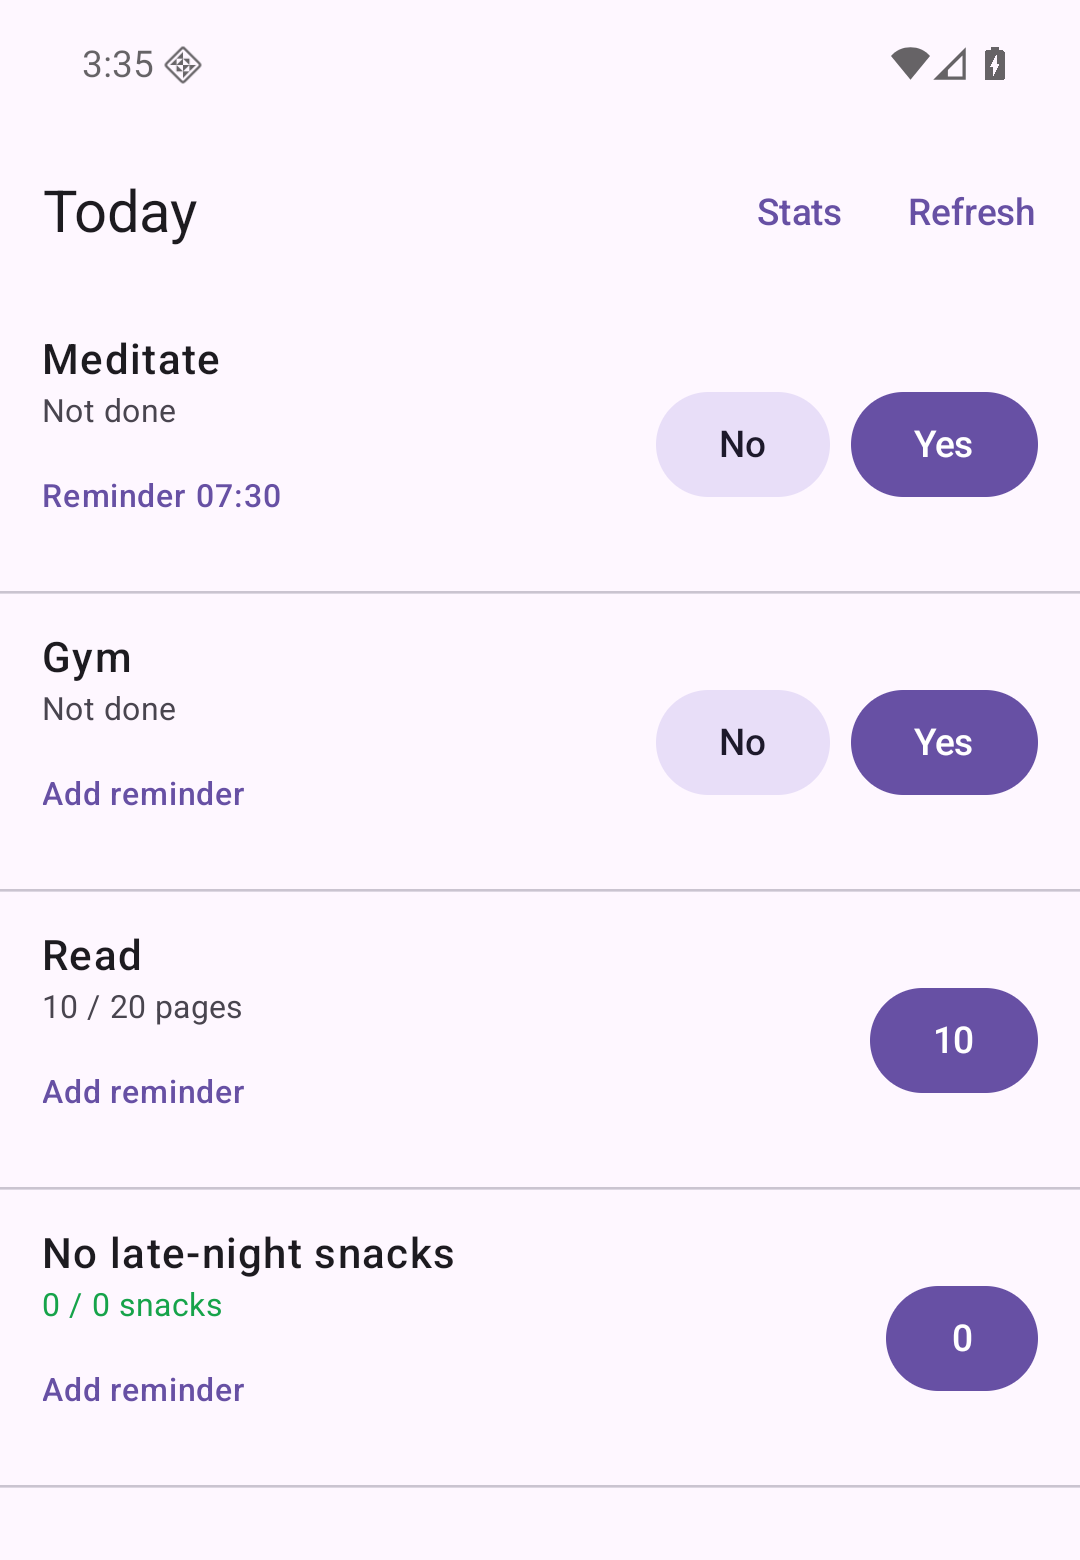
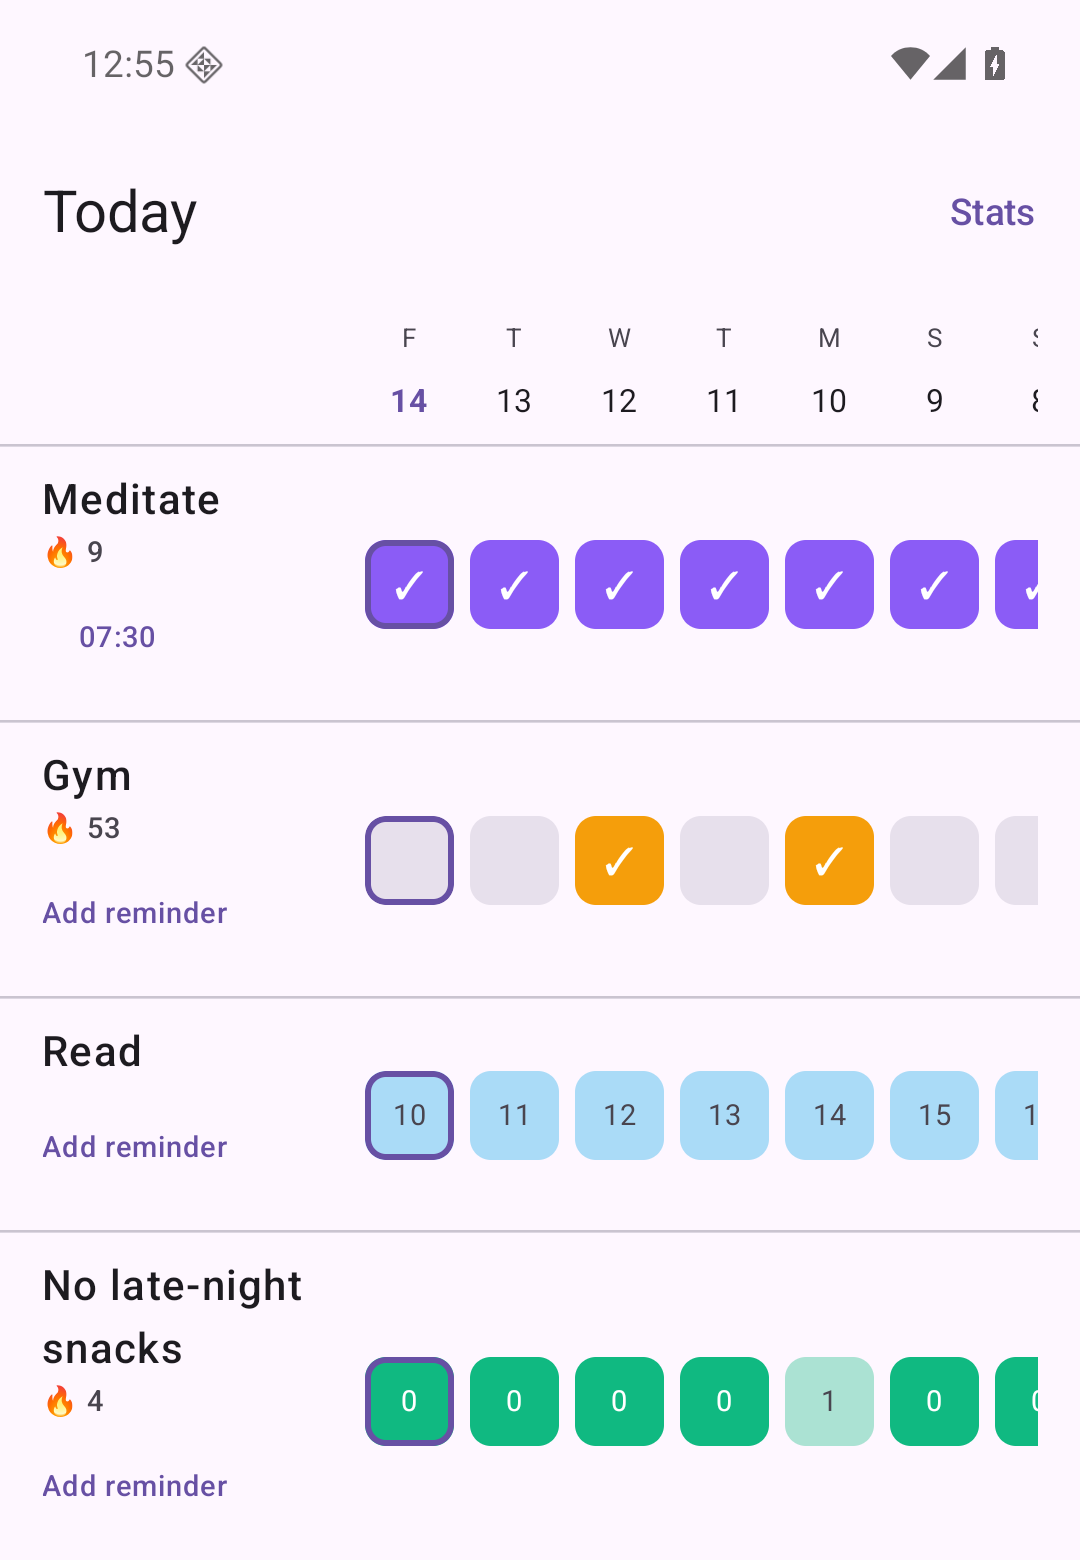
docs: the claims today's merges left behind, and a screenshot of an app that changed
A sweep of every README and CLAUDE.md against what the code now does. Removing
the TWA wrapper and building the APK from `release.yml` invalidated a set of
statements that no test can see are wrong.

**The TWA is gone from the prose, but its arithmetic was not.** "Three options,
in increasing order of effort" sat above a two-row table. "The two Android
workflows" is one workflow. "Both Android workflows fire on `android-v*` tags"
is neither — `android-native.yml` has no tag trigger at all, and there are no
`android-v*` tags in the repo; releases come from a `vX.Y.Z` tag through
`release.yml`, which is also the only thing that builds a release APK.

**The signing story was told three ways, and two were wrong.** The workflows
README already said what `release.yml` implements — a publishing run without a
keystore FAILS, because an unsigned APK is rejected by Android's package
manager itself. `android-native/README.md` still said signing was optional and
an unsigned APK "fine for sideloading", the root README told users to expect
one from a release, and `android-native.yml`'s own header repeated it while
building nothing but debug APKs. The debug APK it does build is signed with the
debug key and installs anywhere, which is why that workflow needs no secrets —
now said in the one place it is true.

**`docs/screenshots/android-list.png` was the app before last week.** It showed
per-row Yes / No buttons and a Refresh action, both of which the day grid
[…]

diff --git a/README.md b/README.md
@@ -666,7 +666,7 @@ A reminder has two halves, set in two places:
 
 | Destination | Delivered by | Answer from it | Works offline | Needs |
 |---|---|---|---|---|
-| **Android app** | the phone, as a local alarm | Yes / No / a count, from the shade | yes | the [native app](android-native/README.md) |
+| **Android app** | the phone, as a local alarm | Yes / No / a count, from the shade — or tap the notification itself to open the app on that habit | yes | the [native app](android-native/README.md) |
 | **Discord (bot)** | your server | Yes / No / Skip buttons, and a box for an amount | no | a Discord application |
 | **Discord (webhook)** | your server | nothing — text only | no | a webhook URL |
 
@@ -752,7 +752,7 @@ button is how you find out.
 
 ## Install on a phone
 
-Three options, in increasing order of effort:
+Two options, in increasing order of effort:
 
 | | What you get | Needs |
 |---|---|---|
@@ -762,17 +762,18 @@ Three options, in increasing order of effort:
 The native client talks to the **personal** edition today; signing in to cloud
 needs an OIDC flow it does not have yet.
 
-The native APK is attached to every [release](../../releases). It is unsigned
-unless the repository has signing secrets configured, so Android will ask you to
-allow *Install unknown apps* for whatever you download it with — that is
-expected, not a warning about the app.
+The native APK is attached to every [release](../../releases), signed — a
+release that has no signing key fails rather than publishing an APK, because
+Android refuses to install an unsigned one at all. Installing it still means
+allowing *Install unknown apps* for whatever you download it with, which every
+sideloaded app needs and is not a warning about this one.
 
 <div align="center">
 <img src="docs/screenshots/dashboard-mobile.png" width="300"
      alt="The web app at phone width: each habit is a card with its name, frequency, strength and streak, above a row of seven day squares.">
 &nbsp;&nbsp;
 <img src="docs/screenshots/android-list.png" width="300"
-     alt="The native Android app: a Today list of four habits, each with its current state, a reminder time or an Add reminder link, and Yes / No buttons or an amount button.">
+     alt="The native Android app: a Today list of four habits, each with its current streak and a reminder time or an Add reminder link, beside a scrolling row of day squares — checkmarks, amounts, and today outlined.">
 <br><sub>The web app added to the home screen · the native app, which can answer from the shade</sub>
 </div>
 
@@ -795,10 +796,13 @@ Reminders are local alarms, so they fire whether or not the server is
 reachable, and the reminder *times* live on the server so they follow your
 account to a new phone.
 
-Everything a web page does well — charts, the calendar, history editing —
-opens the server's own UI inside the app, so there is one implementation of the
-statistics rather than two. The habit list, quick check-offs and server
-settings are native.
+The list itself is native: a row of days per habit — its current streak beside
+the name, tappable squares back through a year of history, the whole grid
+scrolling together and running whichever way your `dayOrder` setting says.
+Everything a web page does well — charts, the calendar, history editing — opens
+the server's own UI inside the app, so there is one implementation of the
+statistics rather than two, and tapping a habit lands on *that* habit's page
+rather than the dashboard.
 
 > The native app talks to the **personal** edition. The cloud edition needs an
 > OIDC sign-in flow it does not implement yet.
@@ -1142,8 +1146,9 @@ a backup round-trip check that exports every format, re-imports it, and asserts
 nothing changed.
 
 **The main suite needs no configuration** — fork it, push, and everything runs.
-Only the two Android release workflows need secrets, and only to *sign* an APK;
-see **[.github/workflows/README.md](.github/workflows/README.md)**.
+The only secrets anything needs are the four Android signing ones, and only to
+*sign* a released APK; see
+**[.github/workflows/README.md](.github/workflows/README.md)**.
 
 The browser suites drive real Chrome and check things unit tests structurally
 cannot — a CSS rule silently defeating the `hidden` attribute, offline

diff --git a/.github/workflows/README.md b/.github/workflows/README.md
@@ -3,16 +3,17 @@
 What each workflow needs before it will run green.
 
 **Short version: `ci.yml` needs nothing.** Push the repo and every test runs.
-Only the two Android workflows need configuring, and only for *signed*
-release builds — unsigned APKs and all the tests work with no setup at all.
+The only thing that needs configuring is APK **signing**, and only for a
+publishing release — every test, and the debug APK the Android workflow
+uploads, work with no setup at all.
 
 ## The workflows
 
 | Workflow | Runs on | Publishes | Needs setup |
 |---|---|---|---|
 | `ci.yml` | every push and PR | nothing | **nothing** |
-| `android-native.yml` | PRs and pushes touching `android-native/` | nothing | only to sign |
-| `release.yml` | **a `vX.Y.Z` tag**, or manual | APKs, images, a GitHub release | nothing (each part skips itself) |
+| `android-native.yml` | PRs and pushes touching `android-native/` | nothing | **nothing** |
+| `release.yml` | **a `vX.Y.Z` tag**, or manual | the APK, images, a GitHub release | signing, and only for a publishing run |
 
 ### Releasing
 
@@ -49,7 +50,7 @@ Either route runs `release.yml`, which:
 5. writes release notes listing every commit since the previous `v*` tag,
    grouped by subject prefix, with anything unprefixed under *Other* rather
    than dropped;
-6. creates the release with the APKs attached.
+6. creates the release with the APK attached.
 
 To try it without publishing, use **Actions → Release → Run workflow** and leave
 *dry_run* ticked: everything builds, nothing is pushed, and the summary lists
@@ -166,15 +167,17 @@ every merge a release of `latest`.
 
 ### `android-native.yml` — the native client
 
-On a PR touching `android-native/` it runs the unit tests, lints, and uploads a
-**debug APK** as a build artifact. That path needs no configuration.
+On a PR touching `android-native/`, and on a push to `master`, it runs the unit
+tests, lints, and uploads a **debug APK** as a build artifact. It never
+publishes and it needs no configuration: a debug APK carries the standard
+Android debug signature and installs anywhere.
 
-**Signing is required for a usable APK.** With no `ANDROID_KEYSTORE_BASE64`
-secret the build still succeeds, but it produces an **unsigned** APK — and
-Android will not install one under any circumstances. It is rejected by the
-package manager itself (`INSTALL_PARSE_FAILED_NO_CERTIFICATES`), so neither
-*Install unknown apps* nor `adb install` gets around it; the user just sees
-"App not installed".
+**The release APK is `release.yml`'s, and signing it is required.** With no
+`ANDROID_KEYSTORE_BASE64` secret the Gradle build still succeeds, but what it
+produces is an **unsigned** APK — and Android will not install one under any
+circumstances. It is rejected by the package manager itself
+(`INSTALL_PARSE_FAILED_NO_CERTIFICATES`), so neither *Install unknown apps* nor
+`adb install` gets around it; the user just sees "App not installed".
 
 A publishing release therefore **fails** if the secrets are absent, rather than
 attaching a file nobody can install. A dry run still builds an unsigned APK, so
@@ -208,13 +211,16 @@ certutil -encode habiterall.keystore tmp.b64 && findstr /v CERTIFICATE tmp.b64  
 ## Triggering a release
 
 ```bash
-git tag android-v0.1.0
-git push origin android-v0.1.0
+git tag v1.4.0
+git push origin v1.4.0
 ```
 
-Both Android workflows fire on `android-v*` tags and attach their APK to the
-GitHub release. Or run either manually from the **Actions** tab —
-optional host override.
+`release.yml` is the only workflow that publishes anything, and a `vX.Y.Z` tag
+— or **Actions → Release → Run workflow** — is the only thing that starts it.
+`android-native.yml` has no tag trigger at all: it builds and tests the client
+on every PR that touches it, and stops there. There is no separate Android
+release tag; the APK is versioned and attached by the same run that publishes
+the images.
 
 ## If a run fails
 

diff --git a/android-native/README.md b/android-native/README.md
@@ -33,6 +33,12 @@ together. Tapping a day cycles it the way the web grid does (unset → done →
 skipped → unset) and a measurable habit asks for a number instead; holding one
 opens a dialog that names the choices rather than making you count taps.
 
+Each row carries its current streak (`🔥 8`), the same figure the web dashboard
+shows under a habit's name and the server's own arithmetic — the row prints
+`currentStreak` from `/api/overview` and computes nothing. Recording a day
+therefore re-asks the server, silently: the optimistic overlay knows about one
+day, and a streak is the whole history.
+
 Which end today sits at is the account's `dayOrder` setting, not this app's, so
 changing it in the web app moves the phone too. Pull down to refresh.
 
@@ -68,6 +74,11 @@ which becomes the notification's title, with the habit's name beneath it.
 The app schedules a local alarm, so a reminder fires whether or not the phone has
 connectivity, and whether or not the server is reachable.
 
+The buttons answer without the app coming forward; **tapping the notification
+itself opens the app** on the habit it was about, which is what a notification
+body does everywhere else and what the reminder should do when the answer is
+"let me look at it".
+
 Reminder times are stored **on the server** as a field on the habit, so they
 follow your account to a new phone and the web UI can set them too.
 
@@ -98,15 +109,20 @@ when connectivity returns — the same guarantee the web app's outbox gives.
 CI builds the APK; see `.github/workflows/android-native.yml`. Nothing needs
 installing locally.
 
-- **Every PR touching `android-native/`** runs the unit tests and lint, and
-  uploads a debug APK as a build artifact.
-- **Pushing a tag matching `android-v*`** builds a release APK and attaches it
-  to a GitHub release. A manual run with *release* ticked does the same
-  without tagging.
+- **Every PR touching `android-native/`**, and every push to `master`, runs the
+  unit tests and lint and uploads a debug APK as a build artifact. That
+  workflow never publishes.
+- **Releases come from `release.yml`**, on a `vX.Y.Z` tag or a manual run: it
+  builds the signed APK, stamps it with the version, and attaches it to the
+  GitHub release. Merging does not ship.
 
-Signing is optional. With no `ANDROID_KEYSTORE_BASE64` secret the release
-build still succeeds and produces an **unsigned** APK, which is fine for
-sideloading. To sign, set these repository secrets:
+**Signing is required for a release.** With no `ANDROID_KEYSTORE_BASE64` secret
+a publishing run *fails* rather than attaching an APK — an unsigned one is
+rejected by Android's package manager itself
+(`INSTALL_PARSE_FAILED_NO_CERTIFICATES`), which reaches the user as a bare "App
+not installed", so no setting and no `adb install` gets around it. A dry run
+still builds an unsigned APK, which is enough to validate the build. To sign,
+set these repository secrets:
 
 | Secret | What |
 |---|---|
@@ -155,6 +171,15 @@ with *Install unknown apps* enabled — no keystore needed to try it.
   `shared/test/time.test.js`. Two parsers with one contract only stay honest if
   both are held to the same examples; `12 am` versus `12 pm` is the one that
   catches every hand-rolled converter.
+- **`GridTest`** — the day grid's arithmetic, pulled out of Compose because
+  these rules only misbehave on a real phone mid-gesture: which end today sits
+  at, what a tap cycles to, when the far edge should load more history, and the
+  scroll correction that keeps a prepended month from sliding the grid sideways.
+- **`ScrollRestoreTest`** — a restored scroll position that no longer fits the
+  list. The version inlined in the screen only covered a clipped *first* row.
+- **`HabitEntryTest`** — what a stored day means, including the one that has bit
+  this project twice: a bare `3` is a skip for a yes/no habit and a real amount
+  for a measurable one.
 
 ## Roadmap
 

diff --git a/CLAUDE.md b/CLAUDE.md
@@ -118,6 +118,20 @@ purpose: a cold deep link leaves an entry a browser's Back walks into, while
 WebView's own back skips an entry pushed without a user gesture and closes the
 screen — which is what returns you to the native list you tapped from.
 
+**A deep link does not paint the list on its way.** `start()` used to load and
+render the dashboard and only then open the habit, so a link straight to one
+showed a full grid of every habit for as long as the stats request took and
+then replaced it — a flash of the wrong screen, on the native client's most
+used path in. The boot now opens the habit alone; nothing else needs the list
+(`state.habits` is the dashboard's), and Back reloads it. Two things keep it
+honest, and both are the reason this is written down rather than obvious: the
+URL still moves through the list (`routes.go(LIST)` before the habit is
+opened), because that is the entry Back returns to; and `detail.open()` reports
+whether it rendered, because a habit that will not open would otherwise leave
+the app showing nothing at all. `routecheck.mjs` pins the flash with a
+MutationObserver installed before the app boots — it lasts one request, which
+is less than a devtools round trip, so it cannot be polled for from outside.
+
 **The native day grid runs whichever way `dayOrder` says, and only one
 direction is free.** With today on the left, loading more history appends past
 the right edge and the scroll offset is still correct. With today on the right
@@ -126,6 +140,25 @@ with it or the grid jumps a month sideways at the moment it loads —
 `Grid.scrollAfterGrowth` is that correction and it is unit-tested. All rows and
 the date header share one `ScrollState`, because two lazy rows cannot share one
 state and rows that scroll apart stop lining up with the dates above them.
+
+**The notification body opens the app; only the buttons answer.** Yes / No /
+Skip and the number pad are the whole point of the native client, but the
+notification is also just a notification, and a tap anywhere else has to do what
+every other app does. `MainActivity` is `singleTop` so the tap reaches the
+instance already running instead of stacking a second one, and the habit id
+rides along so the list lands on the habit that asked. That focus and the
+resume snap-to-top would otherwise race — whichever ran second decided where the
+list sat — so the snap defers while a tap is pending, and the focus is cleared
+once a fetch has landed whether or not the habit was found, or an archived habit
+would suppress the snap forever.
+
+**A row's streak is the server's arithmetic, so recording a day re-asks for
+it.** The optimistic overlay knows one day and a streak is the whole history;
+without a refetch, ticking today left the number sitting still at the exact
+moment it is being watched. The refetch is *silent* — same fetch, no pull
+indicator — because a check-off should not look like work. `quiet` is read and
+cleared at the top of the fetch effect, so a fetch cut short by paging cannot
+leave the next one silent too.
 
 **A time is parsed, not pattern-matched.** `08:30` is what gets stored, but
 `8:30`, `8:30 pm`, `830` and `8` are what people type, and an `^HH:MM$` check
